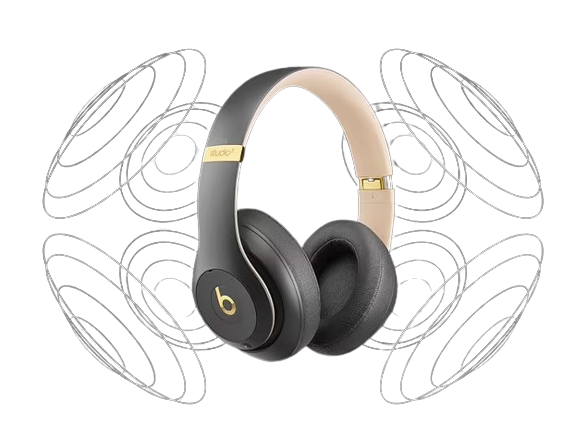
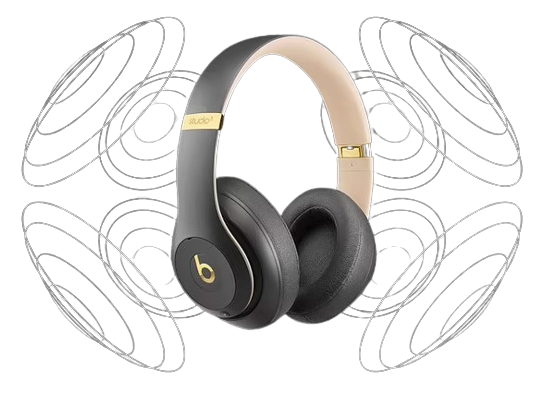
Fixed content overflow issue

diff --git a/styles.css b/styles.css
@@ -194,11 +194,11 @@ button {
 /* ------------- Product Section ------------- */
 #product {
   display: flex;
-  height: 100vh;
-  width: 100vw;
   justify-content: center;
   align-items: center;
-  overflow-y: visible;
+  width: 100vw;
+  overflow-y: scroll;
+  padding-top: 7%;
 }
 
 #product-wrapper {
@@ -269,7 +269,7 @@ button {
 /* ------------ Features Section ------------- */
 #features {
   overflow-y: hidden;
-  padding-bottom: 10vmin;
+  padding: 5vh 0 10vmin 0;
 }
 
 .info {
@@ -311,7 +311,6 @@ button {
 
 #surround-sound-container h3 {
   font-size: 3.5vw;
-  padding-bottom: 1vmin;
 }
 
 #surround-sound-container p {
@@ -320,13 +319,9 @@ button {
   width: 30%;
 }
 
-#surround-sound-info {
-  transform: translateY(5vw);
-}
-
 #surround-sound-img {
   width: 65%;
-  margin-top: 10vmax;
+  height: auto;
 }
 
 .feature-container {
@@ -376,29 +371,30 @@ button {
 }
 
 #how-it-works {
-  /* margin-top: 75px; */
-  /* padding: 5vmin 0 13vmin 0; */
-  padding-bottom: 13vmin;
+  display: inline-flex;
+  /* padding-bottom: 6vmax; */
 }
 
 #how-it-works-wrapper {
   display: flex;
   flex-direction: column;
   align-items: center;
+  justify-content: center;
+  overflow: hidden;
 }
 
 .how-it-works-container {
   display: flex;
-  justify-content: space-around;
   text-align: center;
-  /* padding: 4vmin 0 8vmin 0; */
-  padding-bottom: 8vmin;
+  padding-bottom: 5vmin;
 }
 
 .how-it-works-content {
   display: flex;
   flex-direction: column;
   align-items: center;
+  justify-content: center;
+  padding: 2vh 0;
 }
 
 .how-it-works-content h3 {
@@ -444,11 +440,8 @@ button {
   flex-direction: column;
   justify-content: center;
   overflow-y: hidden;
-}
-
-/* #tech-specs-container {
   padding: 9vmin 0 2vmin 0;
-} */
+}
 
 .info-container {
   display: grid;
@@ -630,7 +623,7 @@ button {
   }
 
   #product {
-    margin-top: 1.5vmax;
+    padding-top: 14vh;
   }
 
   #product-wrapper {
@@ -692,15 +685,8 @@ button {
   }
 
   #features {
-    margin-top: 10vh;
-  }
-
-  #surround-sound-container {
-    height: 120%;
-  }
-
-  #surround-sound-img {
-    margin-top: 0;
+    margin-top: 7vh;
+    padding-top: 7vh;
   }
 
   #surround-sound-container h3 {
@@ -712,12 +698,7 @@ button {
     width: 60%;
   }
   
-  #surround-sound-info {
-    transform: translateY(3vw);
-  }
-  
   #surround-sound-img {
-    margin-top: 7vh;
     width: 90%;
   }
 

diff --git a/script.js b/script.js
@@ -21,13 +21,11 @@ const white_img = document.getElementById("white");
 const sourround_sound_info = document.getElementById("surround-sound-info");
 
 /* ---------------------------- Dynamic code ---------------------------- */
-document.addEventListener('DOMContentLoaded', function() {
   window.addEventListener('load', function() {
     window.scrollTo(0, 0);
     dynamicScreen();
     dynamicSectionPadding();
   });
-});
 
 // Handles highlighting the current section
 window.addEventListener('scroll', () => {
@@ -137,8 +135,7 @@ function dynamicSectionPadding() {
 
   if (sourround_sound_info.offsetTop < topBarHeight && screenWidth <= 1000) {
     features.style.paddingTop = topBarHeight + 'px';
-    features.style.marginTop = 0 + 'px';
   }
-  howItWorks.style.paddingTop = topBarHeight + topBarHeight/3 + 'px';
+  howItWorks.style.padding = topBarHeight + topBarHeight/3 + 'px';
   techSpecs.style.paddingTop = topBarHeight + topBarHeight/3 + 'px';
 }

diff --git a/index.html b/index.html
@@ -81,10 +81,8 @@
       <div class="feature-container">
         <div data-aos="zoom-in" data-aos-duration="1500">
           <div id="surround-sound-container">
-            <div class="feature-info-container" id="surround-sound-info">
-              <h3 id="surround-sound-header">Immersive Sound Experience</h3>
-              <p id="surround-sound-description">Enjoy rich, high-quality audio with AeroBeats headphones. Immerse yourself in your favorite music like never before.</p>
-            </div>
+            <h3 id="surround-sound-header">Immersive Sound Experience</h3>
+            <p id="surround-sound-description">Enjoy rich, high-quality audio with AeroBeats headphones. Immerse yourself in your favorite music like never before.</p>
             <img id="surround-sound-img" src="Images/Beats-Surround-Sound.png" alt="Sound Experience">
           </div>
         </div>
